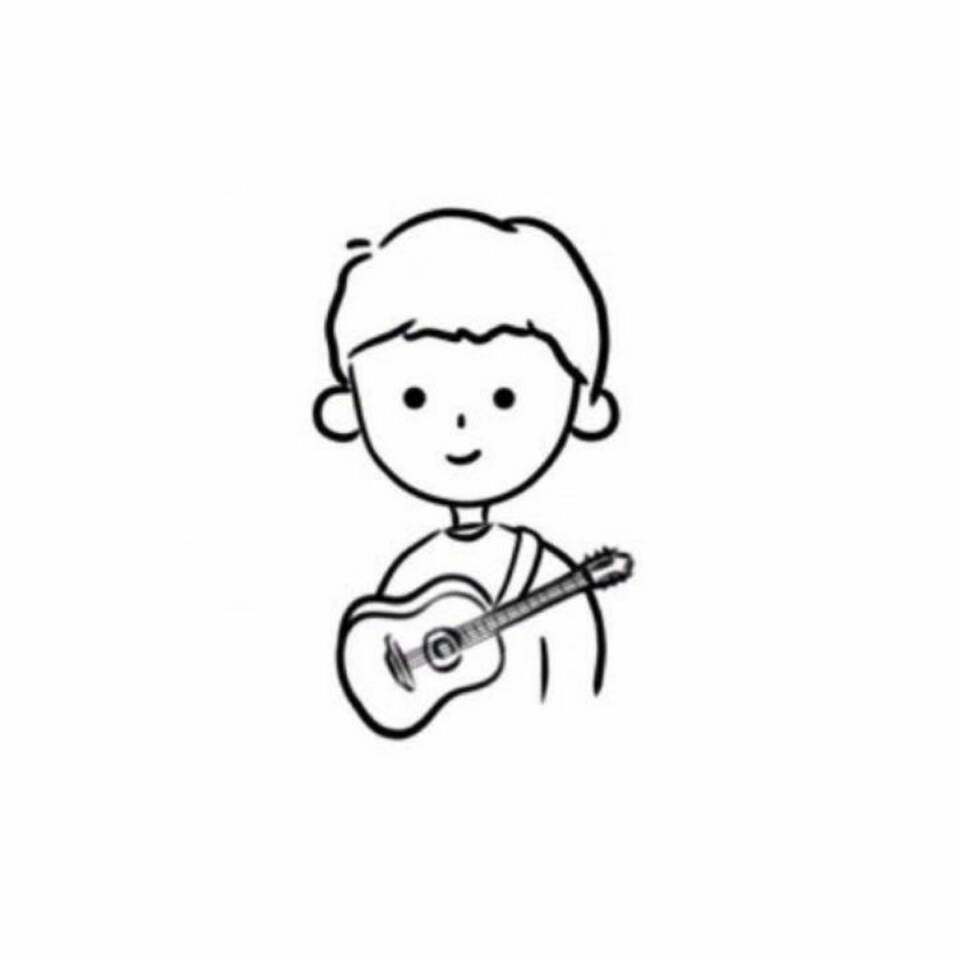
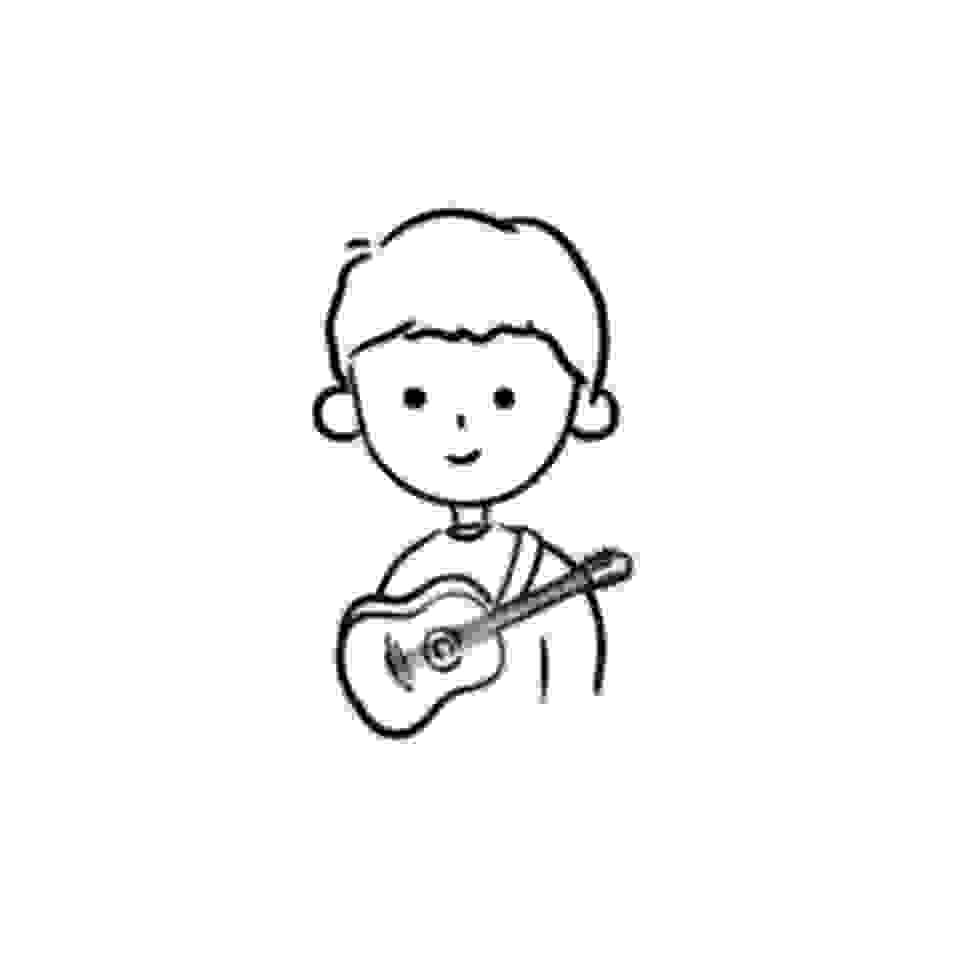
1

diff --git a/_includes/head.html b/_includes/head.html
@@ -15,9 +15,11 @@
   <meta property="og:title" content="{% if page.title %}{{ page.title | escape }}{% else %}{{ site.title | escape }}{% endif %}">
   <meta property="og:description" content="{% if page.excerpt %}{{ page.excerpt | strip_html | strip_newlines | truncate: 160 }}{% else %}{{ site.description }}{% endif %}">
   
-  <link rel="icon" type="image/png" href="/images/favicon.png" />
-  <link href="/images/favicon.png" rel="shortcut icon" type="image/png">
-  
+<!--  <link rel="icon" type="image/png" href="/images/favicon.png" />-->
+<!--  <link href="/images/favicon.png" rel="shortcut icon" type="image/png">-->
+  <link rel="icon" type="image/jpg" href="/images/avatar.jpg" />
+  <link href="/images/avatar.jpg" rel="shortcut icon" type="image/jpg">
+
   <link rel="stylesheet" href="{{ "/css/main.css" | prepend: site.baseurl }}">
   <link href="//netdna.bootstrapcdn.com/font-awesome/4.1.0/css/font-awesome.min.css" rel="stylesheet">
 
